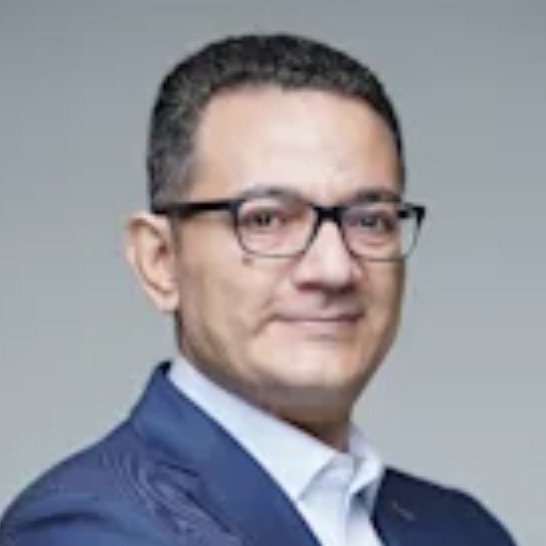
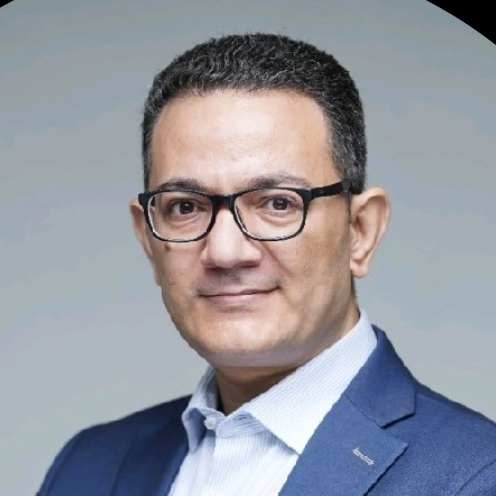
Members: purple theme for Elmira, Alaa v2 photo
- Elmira's card and drawer hero now use a purple gradient
  (AMB #A855F7 → #7C3AED) with matched shadow and border tints
- getMemberColors() helper drives card + drawer consistently from one place
- Replaced alaa-elhadi.jpg with v2 headshot

diff --git a/apps/web/src/app/(portal)/portal/members/MembersShell.tsx b/apps/web/src/app/(portal)/portal/members/MembersShell.tsx
@@ -51,6 +51,30 @@ type DrawerItem =
   | { type: "parcel"; data: ParcelTeamMember }
   | { type: "owner"; data: OwnerMember };
 
+type MemberColors = {
+  gradient: string;
+  shadow: string;
+  shadowHover: string;
+  drawerBorder: string;
+};
+
+function getMemberColors(name: string): MemberColors {
+  if (name.toLowerCase().includes("elmira")) {
+    return {
+      gradient: "linear-gradient(135deg, #A855F7 0%, #7C3AED 100%)",
+      shadow: "0 2px 8px rgba(168, 85, 247, 0.22)",
+      shadowHover: "0 6px 24px rgba(168, 85, 247, 0.45)",
+      drawerBorder: "rgba(109, 40, 217, 0.30)",
+    };
+  }
+  return {
+    gradient: "linear-gradient(135deg, #02AAEB 0%, #1B77BE 100%)",
+    shadow: "0 2px 8px rgba(2, 170, 235, 0.22)",
+    shadowHover: "0 6px 24px rgba(2, 170, 235, 0.45)",
+    drawerBorder: "rgba(27, 119, 190, 0.30)",
+  };
+}
+
 function getInitials(name: string | null, email: string): string {
   if (name?.trim()) {
     const parts = name.trim().split(/\s+/);
@@ -181,6 +205,7 @@ function ParcelCard({
   index: number;
   onClick: () => void;
 }) {
+  const colors = getMemberColors(member.name);
   return (
     <motion.button
       type="button"
@@ -190,16 +215,16 @@ function ParcelCard({
       onClick={onClick}
       className="flex w-full cursor-pointer items-start gap-4 rounded-2xl p-5 text-left"
       style={{
-        background: "linear-gradient(135deg, #02AAEB 0%, #1B77BE 100%)",
-        boxShadow: "0 2px 8px rgba(2, 170, 235, 0.22)",
+        background: colors.gradient,
+        boxShadow: colors.shadow,
         transition: "box-shadow 150ms ease, transform 150ms ease",
       }}
       onMouseEnter={(e) => {
-        e.currentTarget.style.boxShadow = "0 6px 24px rgba(2, 170, 235, 0.45)";
+        e.currentTarget.style.boxShadow = colors.shadowHover;
         e.currentTarget.style.transform = "translateY(-2px)";
       }}
       onMouseLeave={(e) => {
-        e.currentTarget.style.boxShadow = "0 2px 8px rgba(2, 170, 235, 0.22)";
+        e.currentTarget.style.boxShadow = colors.shadow;
         e.currentTarget.style.transform = "translateY(0)";
       }}
     >
@@ -432,12 +457,14 @@ export function MembersShell({
 
               <div className="flex-1 overflow-y-auto">
                 {/* Horizontal hero zone */}
-                {drawer.type === "parcel" ? (
+                {drawer.type === "parcel" ? (() => {
+                  const dc = getMemberColors(drawer.data.name);
+                  return (
                   <div
                     className="flex items-center gap-4 px-5 py-5"
                     style={{
-                      background: "linear-gradient(135deg, #02AAEB 0%, #1B77BE 100%)",
-                      borderBottom: "1px solid rgba(27,119,190,0.3)",
+                      background: dc.gradient,
+                      borderBottom: `1px solid ${dc.drawerBorder}`,
                     }}
                   >
                     <Avatar
@@ -489,7 +516,8 @@ export function MembersShell({
                       )}
                     </div>
                   </div>
-                ) : (
+                  );
+                })() : (
                   <div
                     className="flex items-center gap-4 px-5 py-5"
                     style={{
